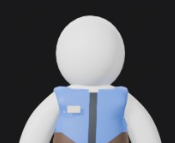
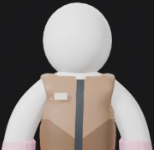
fix: "클릭하여 계속" 우측 하단 배치 · 매복 대화창을 기존 대화 UI와 통일
- dlg-next 의 className 을 'on' 으로 통째로 덮어써 `next` 클래스가 사라졌고,
  CSS 셀렉터(`#dlg .bubble .next`)가 빗나가 position:absolute 가 안 먹던 버그 수정
- 매복(E-17) 대화창을 #dlg 와 같은 구조로: 폭 760px · DIALOGUE 배지 · 대사 20px,
  화자는 초상화 이름표에만 두고 역무원일 때만 위험색
- 붕어빵 아저씨 초상화 교체

diff --git a/game/src/ui/css/dialog.css b/game/src/ui/css/dialog.css
@@ -109,26 +109,31 @@
   background:var(--gold);transition:transform .1s linear}
 #gpstory .cap{font-family:var(--mono);font-size:10px;letter-spacing:.1em;color:var(--muted)}
 
-/* 개찰구 매복(E-17) — 강제 컷씬. `#gpstory`와 **같은 카드 UI**로 통일한다(디렉터 지시) —
-   초상화 카드(`.actor-card`는 공용 규칙)+대사창+진행바, 같은 자리(같은 bottom)를 쓰되
-   동시에 뜨는 일이 없으므로(매복 중엔 다른 대화·QTE가 안 열린다) 겹침 걱정은 없다.
-   유일한 차이는 위험색(`--crit`) 강조 — 위기 상황이라는 것만 톤으로 알려준다. */
+/* 개찰구 매복(E-17) — 강제 컷씬이지만 **크롬은 `#dlg`와 완전히 같다**(디렉터 지시,
+   "기존 대화 UI와 동일하도록") — 테두리·글로우까지 `--accent`(청록)로 맞춘다.
+   위험함은 색이 아니라 **내용**(역무원 대사 `.who.danger`)으로만 표시한다 —
+   `#gpstory`가 화자별로 다른 색을 쓰는 것과 같은 방식(`who.player`)이라 UI 문법이 갈리지 않는다.
+   같은 자리(같은 bottom)를 쓰되 동시에 뜨는 일이 없으므로(매복 중엔 다른 대화·QTE가 안 열린다)
+   겹침 걱정은 없다. */
 #ambush{position:absolute;left:50%;bottom:210px;transform:translateX(-50%);
-  width:min(620px,88vw);display:none;align-items:center;gap:20px;font-family:var(--sans);
-  background:var(--panel);border:1.5px solid var(--crit);border-radius:var(--r-panel);
-  padding:20px;box-shadow:0 16px 32px rgba(0,0,0,.8),inset 0 0 24px rgba(229,72,77,.16)}
+  width:min(760px,90vw);display:none;align-items:center;gap:20px;font-family:var(--sans);
+  background:var(--panel);border:1.5px solid var(--accent);border-radius:var(--r-panel);
+  padding:20px;box-shadow:0 16px 32px rgba(0,0,0,.8),inset 0 0 24px rgba(0,240,255,.16)}
 #ambush.on{display:flex;animation:rpop .22s ease both}
-#ambush .conv{flex:1 1 0;min-width:0;display:flex;flex-direction:column;gap:10px}
+#ambush .conv{flex:1 1 0;min-width:0;display:flex;flex-direction:column;gap:12px}
 #ambush .bubble{background:rgba(14,16,23,.8);border:1px solid rgba(255,255,255,.08);
-  border-radius:12px;padding:14px 16px;box-shadow:0 10px 24px rgba(0,0,0,.25);min-height:52px}
-#ambush .who{display:block;font-family:var(--mono);font-size:10px;font-weight:800;
-  letter-spacing:.08em;margin-bottom:5px;color:var(--muted)}
-#ambush .who.danger{color:var(--crit)}
-#ambush .bubble p{font-size:14px;line-height:1.5;color:#fff;margin:0}
+  border-radius:12px;padding:12px 14px;box-shadow:0 10px 24px rgba(0,0,0,.25)}
+#ambush .bubble .kick{display:flex;align-items:center;gap:6px;font-family:var(--mono);
+  font-size:10px;font-weight:800;letter-spacing:.1em;color:var(--accent);
+  text-transform:uppercase;margin-bottom:7px}
+#ambush .bubble .kick::before{content:'';width:7px;height:7px;border-radius:50%;
+  background:var(--accent);box-shadow:0 0 6px var(--accent)}
+#ambush .bubble p{font-size:20px;line-height:1.5;color:#fff;margin:0}
+/* 화자가 역무원이면 이름표만 위험색 — 패널 크롬은 `#dlg` 와 끝까지 같게 둔다 */
+#ambush .tag.danger{color:var(--crit);background:rgba(229,72,77,.15);border-color:var(--crit)}
 #ambush .bar{height:4px;border-radius:2px;background:rgba(255,255,255,.12);overflow:hidden}
 #ambush .bar i{display:block;height:100%;width:100%;transform:scaleX(0);transform-origin:left;
-  background:var(--crit);transition:transform .1s linear}
-#ambush .cap{font-family:var(--mono);font-size:10px;letter-spacing:.1em;color:var(--muted)}
+  background:var(--gold);transition:transform .1s linear}
 
 /* QTE — 리듬창을 **눈으로 볼 수 있어야** 실력이 성립한다.
    창이 안 보이면 판정은 그냥 운으로 읽힌다 */

diff --git a/game/src/ui/dialog.ts b/game/src/ui/dialog.ts
@@ -166,9 +166,8 @@ export const createDialog = (mount: HTMLElement): Dialog => {
         <div class="tag" id="ambush-who"></div>
       </div>
       <div class="conv">
-        <div class="bubble"><span class="who" id="ambush-speaker"></span><p id="ambush-line"></p></div>
+        <div class="bubble"><div class="kick">DIALOGUE</div><p id="ambush-line"></p></div>
         <div class="bar"><i id="ambush-bar"></i></div>
-        <div class="cap">개찰구</div>
       </div>
     </div>
     <div id="qte">
@@ -232,7 +231,6 @@ export const createDialog = (mount: HTMLElement): Dialog => {
   const ambushFrame = $('ambush-frame')
   const ambushWho = $('ambush-who')
   const ambushPortrait = $<HTMLImageElement>('ambush-portrait')
-  const ambushSpeaker = $('ambush-speaker')
   const ambushLine = $('ambush-line')
   const ambushBar = $('ambush-bar')
   const qte = $('qte')
@@ -412,7 +410,9 @@ export const createDialog = (mount: HTMLElement): Dialog => {
               ? (FISHCAKE_GREETING[Math.min(s.act.dialogStep, FISHCAKE_GREETING.length - 1)] ?? '')
               : '"이 시간에 여긴 어쩐 일인가?"'
           const showNext = isFishcake && (reacting || !greetingDone)
-          dlgNext.className = showNext ? 'on' : ''
+          // ⚠ `next` 를 **반드시 남긴다** — CSS 가 `#dlg .bubble .next` 로 잡으므로
+          //   `'on'` 만 넣으면 셀렉터가 통째로 빗나가 우측 하단 배치가 안 먹는다(실제로 그랬다)
+          dlgNext.className = showNext ? 'next on' : 'next'
           dlgBubble.className = `bubble${showNext ? ' has-next' : ''}`
           dlgOps.innerHTML = greetingDone && !reacting
             ? branchesFor(s, s.act.dialogId!)
@@ -459,9 +459,9 @@ export const createDialog = (mount: HTMLElement): Dialog => {
       }
       if (s.ambush.active) {
         const { line } = ambushLineAt(s.ambush.phaseMs)
+        // 화자는 **이름표에만** 둔다 — `#dlg` 와 같은 구조(말풍선 머리는 DIALOGUE 배지 고정)
         ambushWho.textContent = line.speaker
-        ambushSpeaker.textContent = line.speaker
-        ambushSpeaker.className = `who${line.speaker === '역무원' ? ' danger' : ''}`
+        ambushWho.className = `tag${line.speaker === '역무원' ? ' danger' : ''}`
         ambushLine.textContent = line.text
         if (line.speaker === '??') {
           ambushFrame.style.display = 'none'
